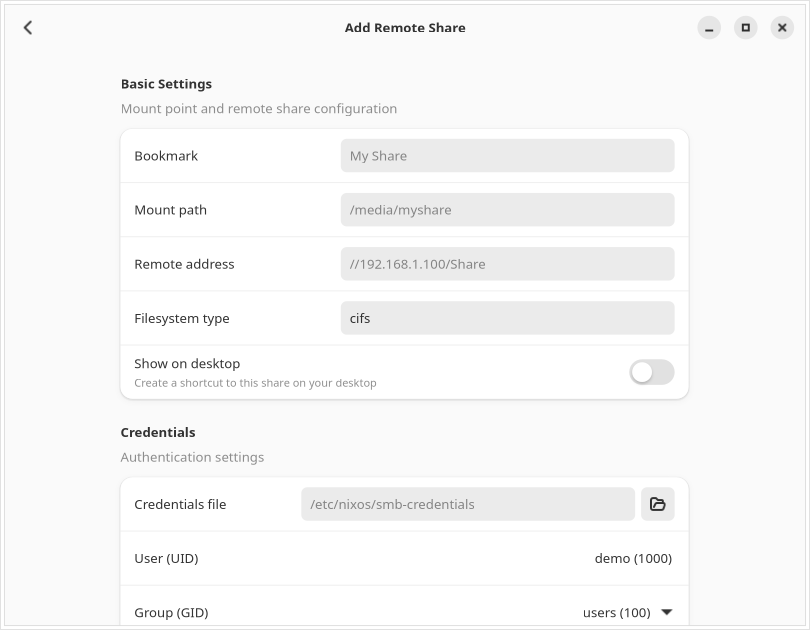
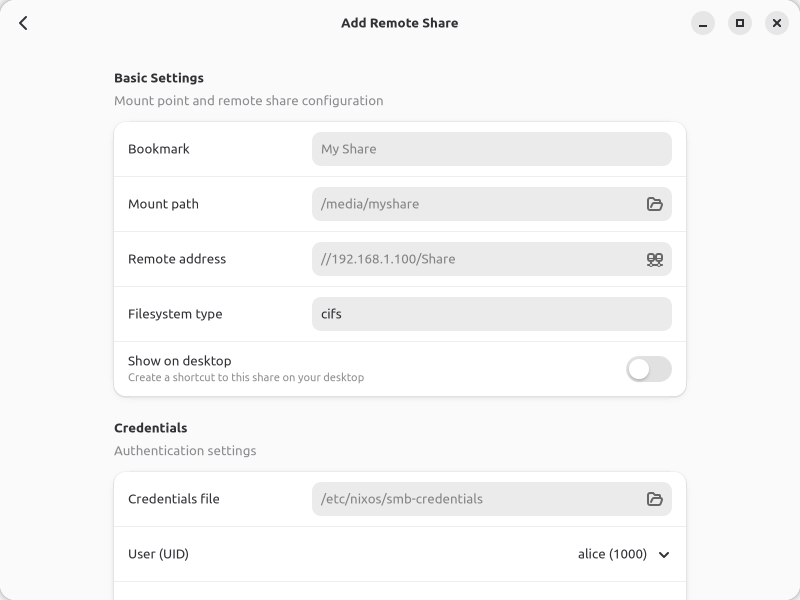
upd nix-samba

diff --git a/docs/app_glfosNixSamba.html b/docs/app_glfosNixSamba.html
@@ -10,7 +10,7 @@
   <link rel="preconnect" href="https://fonts.googleapis.com">
   <link rel="preconnect" href="https://fonts.gstatic.com" crossorigin>
   <link href="https://fonts.googleapis.com/css2?family=Sora:wght@400;500;600;700&family=Inter:wght@400;500;600;700&family=Pixelify+Sans:wght@500;700&display=swap" rel="stylesheet">
-  <link rel="stylesheet" href="css/theme.css?v=20261101161648">
+  <link rel="stylesheet" href="css/theme.css?v=20261105121751">
 
   <!-- Google tag (gtag.js) -->
   <script async src="https://www.googletagmanager.com/gtag/js?id=G-ZVG5R211FM"></script>
@@ -122,7 +122,14 @@
 <li>fichier d'identifiants, UID/GID, montage automatique systemd et délais d'attente</li>
 <li>favori dans le gestionnaire de fichiers (GTK ou KDE) et raccourci sur le bureau en option</li>
 </ul></li>
+<li>🔍 <strong>Découverte réseau</strong>&nbsp;: plus besoin de connaître l'adresse exacte du partage, une fenêtre vous aide à la remplir
+<ul>
+<li>détection automatique des serveurs Samba de votre réseau (mDNS), ou saisie de leur nom ou adresse IP</li>
+<li>liste des partages du serveur choisi, en anonyme, avec le fichier d'identifiants ou avec un nom d'utilisateur et un mot de passe</li>
+<li>un clic sur <strong>Sélectionner</strong> remplit l'adresse distante (<code>//serveur/partage</code>)</li>
+</ul></li>
 <li>🔑 <strong>Fichier d'identifiants</strong>&nbsp;: créez un fichier d'identifiants Samba protégé (<code>chmod 600</code>)</li>
+<li>📂 <strong>Sélecteur de dossier</strong>&nbsp;: choisissez le point de montage, le dossier partagé ou l'emplacement du fichier d'identifiants d'un clic</li>
 <li>📁 <strong>Partages locaux (serveur Samba)</strong>&nbsp;: partagez un dossier sur votre réseau
 <ul>
 <li>accès public (invité) ou réservé à certains utilisateurs</li>
@@ -135,14 +142,15 @@
 <p>Vos modifications restent en mémoire jusqu'au clic sur <strong>Enregistrer sur le disque</strong>, et l'application demande confirmation si vous fermez la fenêtre sans avoir enregistré.</p>
 <p>Écrit en Python avec GTK 4 et Libadwaita, il est livré avec GLF OS.</p>
 <h3>Screenshots</h3>
-<p><img src="/images/screenshots/apps/glfosNixSamba/01-home.png?v=20261025" alt="Accueil" />
-<img src="/images/screenshots/apps/glfosNixSamba/02-remote-list.png?v=20261025" alt="Liste des partages distants" />
-<img src="/images/screenshots/apps/glfosNixSamba/03-remote-edit.png?v=20261025" alt="Modifier un partage distant" />
-<img src="/images/screenshots/apps/glfosNixSamba/04-remote-add.png?v=20261025" alt="Ajouter un partage distant" />
-<img src="/images/screenshots/apps/glfosNixSamba/05-credentials.png?v=20261025" alt="Créer un fichier d&#039;identifiants" />
-<img src="/images/screenshots/apps/glfosNixSamba/06-local-list.png?v=20261025" alt="Liste des partages locaux" />
-<img src="/images/screenshots/apps/glfosNixSamba/07-local-edit.png?v=20261025" alt="Modifier un partage local" />
-<img src="/images/screenshots/apps/glfosNixSamba/08-local-add.png?v=20261025" alt="Ajouter un partage local" /></p>        </div>
+<p><img src="/images/screenshots/apps/glfosNixSamba/01-home.png?v=20261105" alt="Accueil" />
+<img src="/images/screenshots/apps/glfosNixSamba/02-remote-list.png?v=20261105" alt="Liste des partages distants" />
+<img src="/images/screenshots/apps/glfosNixSamba/03-remote-edit.png?v=20261105" alt="Modifier un partage distant" />
+<img src="/images/screenshots/apps/glfosNixSamba/04-remote-add.png?v=20261105" alt="Ajouter un partage distant" />
+<img src="/images/screenshots/apps/glfosNixSamba/09-remote-browse.png?v=20261105" alt="Parcourir le réseau" />
+<img src="/images/screenshots/apps/glfosNixSamba/05-credentials.png?v=20261105" alt="Créer un fichier d&#039;identifiants" />
+<img src="/images/screenshots/apps/glfosNixSamba/06-local-list.png?v=20261105" alt="Liste des partages locaux" />
+<img src="/images/screenshots/apps/glfosNixSamba/07-local-edit.png?v=20261105" alt="Modifier un partage local" />
+<img src="/images/screenshots/apps/glfosNixSamba/08-local-add.png?v=20261105" alt="Ajouter un partage local" /></p>        </div>
     </div>
 
     </div>

diff --git a/docs/about.html b/docs/about.html
@@ -10,7 +10,7 @@
   <link rel="preconnect" href="https://fonts.googleapis.com">
   <link rel="preconnect" href="https://fonts.gstatic.com" crossorigin>
   <link href="https://fonts.googleapis.com/css2?family=Sora:wght@400;500;600;700&family=Inter:wght@400;500;600;700&family=Pixelify+Sans:wght@500;700&display=swap" rel="stylesheet">
-  <link rel="stylesheet" href="css/theme.css?v=20261101161648">
+  <link rel="stylesheet" href="css/theme.css?v=20261105121751">
 
   <!-- Google tag (gtag.js) -->
   <script async src="https://www.googletagmanager.com/gtag/js?id=G-ZVG5R211FM"></script>

diff --git a/docs/app_beatMatchToPass.html b/docs/app_beatMatchToPass.html
@@ -10,7 +10,7 @@
   <link rel="preconnect" href="https://fonts.googleapis.com">
   <link rel="preconnect" href="https://fonts.gstatic.com" crossorigin>
   <link href="https://fonts.googleapis.com/css2?family=Sora:wght@400;500;600;700&family=Inter:wght@400;500;600;700&family=Pixelify+Sans:wght@500;700&display=swap" rel="stylesheet">
-  <link rel="stylesheet" href="css/theme.css?v=20261101161648">
+  <link rel="stylesheet" href="css/theme.css?v=20261105121751">
 
   <!-- Google tag (gtag.js) -->
   <script async src="https://www.googletagmanager.com/gtag/js?id=G-ZVG5R211FM"></script>

diff --git a/docs/app_dupotDevTools.html b/docs/app_dupotDevTools.html
@@ -10,7 +10,7 @@
   <link rel="preconnect" href="https://fonts.googleapis.com">
   <link rel="preconnect" href="https://fonts.gstatic.com" crossorigin>
   <link href="https://fonts.googleapis.com/css2?family=Sora:wght@400;500;600;700&family=Inter:wght@400;500;600;700&family=Pixelify+Sans:wght@500;700&display=swap" rel="stylesheet">
-  <link rel="stylesheet" href="css/theme.css?v=20261101161648">
+  <link rel="stylesheet" href="css/theme.css?v=20261105121751">
 
   <!-- Google tag (gtag.js) -->
   <script async src="https://www.googletagmanager.com/gtag/js?id=G-ZVG5R211FM"></script>

diff --git a/docs/app_dupotEasyFlatpak.html b/docs/app_dupotEasyFlatpak.html
@@ -10,7 +10,7 @@
   <link rel="preconnect" href="https://fonts.googleapis.com">
   <link rel="preconnect" href="https://fonts.gstatic.com" crossorigin>
   <link href="https://fonts.googleapis.com/css2?family=Sora:wght@400;500;600;700&family=Inter:wght@400;500;600;700&family=Pixelify+Sans:wght@500;700&display=swap" rel="stylesheet">
-  <link rel="stylesheet" href="css/theme.css?v=20261101161648">
+  <link rel="stylesheet" href="css/theme.css?v=20261105121751">
 
   <!-- Google tag (gtag.js) -->
   <script async src="https://www.googletagmanager.com/gtag/js?id=G-ZVG5R211FM"></script>

diff --git a/docs/app_dupotFileBrowser.html b/docs/app_dupotFileBrowser.html
@@ -10,7 +10,7 @@
   <link rel="preconnect" href="https://fonts.googleapis.com">
   <link rel="preconnect" href="https://fonts.gstatic.com" crossorigin>
   <link href="https://fonts.googleapis.com/css2?family=Sora:wght@400;500;600;700&family=Inter:wght@400;500;600;700&family=Pixelify+Sans:wght@500;700&display=swap" rel="stylesheet">
-  <link rel="stylesheet" href="css/theme.css?v=20261101161648">
+  <link rel="stylesheet" href="css/theme.css?v=20261105121751">
 
   <!-- Google tag (gtag.js) -->
   <script async src="https://www.googletagmanager.com/gtag/js?id=G-ZVG5R211FM"></script>

diff --git a/docs/app_dupotStaticGenerationFramework.html b/docs/app_dupotStaticGenerationFramework.html
@@ -10,7 +10,7 @@
   <link rel="preconnect" href="https://fonts.googleapis.com">
   <link rel="preconnect" href="https://fonts.gstatic.com" crossorigin>
   <link href="https://fonts.googleapis.com/css2?family=Sora:wght@400;500;600;700&family=Inter:wght@400;500;600;700&family=Pixelify+Sans:wght@500;700&display=swap" rel="stylesheet">
-  <link rel="stylesheet" href="css/theme.css?v=20261101161648">
+  <link rel="stylesheet" href="css/theme.css?v=20261105121751">
 
   <!-- Google tag (gtag.js) -->
   <script async src="https://www.googletagmanager.com/gtag/js?id=G-ZVG5R211FM"></script>

diff --git a/docs/app_dupotStaticManagementFramework.html b/docs/app_dupotStaticManagementFramework.html
@@ -10,7 +10,7 @@
   <link rel="preconnect" href="https://fonts.googleapis.com">
   <link rel="preconnect" href="https://fonts.gstatic.com" crossorigin>
   <link href="https://fonts.googleapis.com/css2?family=Sora:wght@400;500;600;700&family=Inter:wght@400;500;600;700&family=Pixelify+Sans:wght@500;700&display=swap" rel="stylesheet">
-  <link rel="stylesheet" href="css/theme.css?v=20261101161648">
+  <link rel="stylesheet" href="css/theme.css?v=20261105121751">
 
   <!-- Google tag (gtag.js) -->
   <script async src="https://www.googletagmanager.com/gtag/js?id=G-ZVG5R211FM"></script>

diff --git a/docs/app_glfosWelcomeScreen.html b/docs/app_glfosWelcomeScreen.html
@@ -10,7 +10,7 @@
   <link rel="preconnect" href="https://fonts.googleapis.com">
   <link rel="preconnect" href="https://fonts.gstatic.com" crossorigin>
   <link href="https://fonts.googleapis.com/css2?family=Sora:wght@400;500;600;700&family=Inter:wght@400;500;600;700&family=Pixelify+Sans:wght@500;700&display=swap" rel="stylesheet">
-  <link rel="stylesheet" href="css/theme.css?v=20261101161648">
+  <link rel="stylesheet" href="css/theme.css?v=20261105121751">
 
   <!-- Google tag (gtag.js) -->
   <script async src="https://www.googletagmanager.com/gtag/js?id=G-ZVG5R211FM"></script>

diff --git a/docs/app_kritaSpritesheetExporter.html b/docs/app_kritaSpritesheetExporter.html
@@ -10,7 +10,7 @@
   <link rel="preconnect" href="https://fonts.googleapis.com">
   <link rel="preconnect" href="https://fonts.gstatic.com" crossorigin>
   <link href="https://fonts.googleapis.com/css2?family=Sora:wght@400;500;600;700&family=Inter:wght@400;500;600;700&family=Pixelify+Sans:wght@500;700&display=swap" rel="stylesheet">
-  <link rel="stylesheet" href="css/theme.css?v=20261101161648">
+  <link rel="stylesheet" href="css/theme.css?v=20261105121751">
 
   <!-- Google tag (gtag.js) -->
   <script async src="https://www.googletagmanager.com/gtag/js?id=G-ZVG5R211FM"></script>

diff --git a/docs/app_littleAdventure.html b/docs/app_littleAdventure.html
@@ -10,7 +10,7 @@
   <link rel="preconnect" href="https://fonts.googleapis.com">
   <link rel="preconnect" href="https://fonts.gstatic.com" crossorigin>
   <link href="https://fonts.googleapis.com/css2?family=Sora:wght@400;500;600;700&family=Inter:wght@400;500;600;700&family=Pixelify+Sans:wght@500;700&display=swap" rel="stylesheet">
-  <link rel="stylesheet" href="css/theme.css?v=20261101161648">
+  <link rel="stylesheet" href="css/theme.css?v=20261105121751">
 
   <!-- Google tag (gtag.js) -->
   <script async src="https://www.googletagmanager.com/gtag/js?id=G-ZVG5R211FM"></script>

diff --git a/docs/app_littleEscape.html b/docs/app_littleEscape.html
@@ -10,7 +10,7 @@
   <link rel="preconnect" href="https://fonts.googleapis.com">
   <link rel="preconnect" href="https://fonts.gstatic.com" crossorigin>
   <link href="https://fonts.googleapis.com/css2?family=Sora:wght@400;500;600;700&family=Inter:wght@400;500;600;700&family=Pixelify+Sans:wght@500;700&display=swap" rel="stylesheet">
-  <link rel="stylesheet" href="css/theme.css?v=20261101161648">
+  <link rel="stylesheet" href="css/theme.css?v=20261105121751">
 
   <!-- Google tag (gtag.js) -->
   <script async src="https://www.googletagmanager.com/gtag/js?id=G-ZVG5R211FM"></script>
